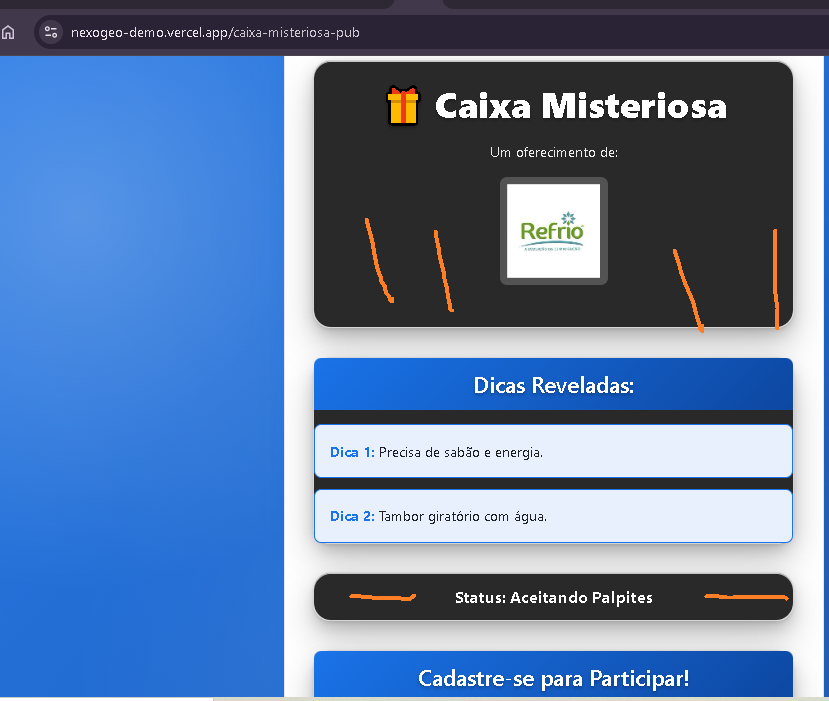
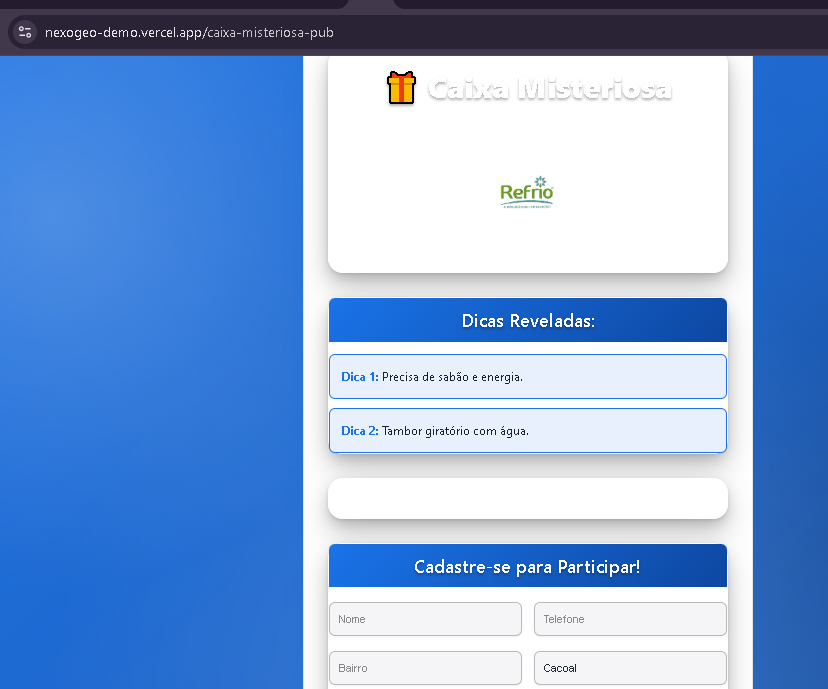
fix: Ajusta cores de texto e backgrounds para temas claros e dark mode
Problema identificado:
- Texto branco em backgrounds brancos (Caixa Misteriosa, Status)
- Em dark mode havia seções brancas visíveis

Correções realizadas:

JSX - Cores dinâmicas de texto:
- Seção "Caixa Misteriosa": texto preto em temas claros (Vermelho, Roxo)
- Status: texto preto em temas claros (Vermelho, Roxo)
- Temas escuros (Azul, Verde, Dark) mantêm texto branco

CSS - Dark Mode:
- Cards agora forçam background escuro rgba(30, 30, 30, 0.95) em dark mode
- Não há mais partes brancas em dark mode
- Inputs mantêm background claro para legibilidade

🤖 Generated with [Claude Code](https://claude.com/claude-code)

diff --git a/src/pages/CaixaMisteriosaPub.jsx b/src/pages/CaixaMisteriosaPub.jsx
@@ -799,12 +799,12 @@ E aí, qual você prefere?
                     </div>
                 )}
 
-                <div style={{ textAlign: 'center', marginBottom: '2rem', background: currentThemeData.gradient, padding: '1.5rem 1rem', borderRadius: '1rem', color: 'white' }}>
-                    <h1 style={{ color: 'white', fontSize: '2.5rem', margin: '0 0 0.5rem 0', fontWeight: '900' }}>
+                <div style={{ textAlign: 'center', marginBottom: '2rem', background: currentThemeData.gradient, padding: '1.5rem 1rem', borderRadius: '1rem', color: currentThemeData.text }}>
+                    <h1 style={{ color: currentThemeData.primary === '#ef4444' || currentThemeData.primary === '#8b5cf6' ? '#000' : 'white', fontSize: '2.5rem', margin: '0 0 0.5rem 0', fontWeight: '900' }}>
                         🎁 Caixa Misteriosa
                     </h1>
 
-                    <p style={{ color: 'rgba(255, 255, 255, 0.9)', marginTop: '1rem', fontSize: '1rem' }}>Um oferecimento de:</p>
+                    <p style={{ color: currentThemeData.primary === '#ef4444' || currentThemeData.primary === '#8b5cf6' ? '#1f2937' : 'rgba(255, 255, 255, 0.9)', marginTop: '1rem', fontSize: '1rem' }}>Um oferecimento de:</p>
 
                     {/* Logo do patrocinador OU texto - dependendo se logo_url existe */}
                     {console.log('🖼 [LOGO DEBUG] sponsorLogoUrl:', liveGame.giveaway?.sponsor?.logo_url, 'sponsorName:', liveGame.giveaway?.sponsor?.name)}
@@ -866,7 +866,7 @@ E aí, qual você prefere?
                 {/* Status do jogo */}
                 <div style={{ background: currentThemeData.gradient, padding: '0.75rem 1rem', borderRadius: '0.5rem', marginBottom: '2rem', textAlign: 'center' }}>
                     <span style={{
-                        color: 'white',
+                        color: currentThemeData.primary === '#ef4444' || currentThemeData.primary === '#8b5cf6' ? '#000' : 'white',
                         fontSize: '1.1rem',
                         fontWeight: 'bold'
                     }}>

diff --git a/src/pages/CaixaMisteriosaPub.css b/src/pages/CaixaMisteriosaPub.css
@@ -167,7 +167,13 @@
 
 /* Tema escuro */
 @media (prefers-color-scheme: dark) {
-  /* Deixar cards com inline styles (currentThemeData.gradient) */
+  /* Forçar backgrounds escuros em dark mode (não branco) */
+  .caixa-misteriosa-pub-container .card,
+  .caixa-misteriosa-pub-container > div > div {
+    background: rgba(30, 30, 30, 0.95) !important;
+    border: 2px solid rgba(100, 100, 100, 0.3) !important;
+    color: white;
+  }
 
   /* Manter inputs claros para legibilidade em dark mode */
   .caixa-misteriosa-pub-container input,

diff --git a/erro.navegador.md b/erro.navegador.md
@@ -2,4 +2,20 @@ https://nexogeo-demo.vercel.app/caixa-misteriosa-pub
  
 veja a imagem print-tela.png
 
-ja tentou varias vezes e nao esa mudando a cor preta para usar a cor do tema... verifique
+corrigir:
+
+Caixa Misteriosa
+Um oferecimento de:
+
+texto na pagina esta ficando com cor branco e o fundo e branco.... colocar texto em Preto
+quando o tema for escuro colocar o texto em branco
+
+
+corrigir:
+Status: Aceitando Palpites
+
+texto na pagina esta ficando com cor branco e o fundo e branco.... colocar texto em Preto
+quando o tema for escuro colocar o texto em branco
+
+quando ficar o tema escuro nao pode ficar nenhuma parte da tela em branco
+
